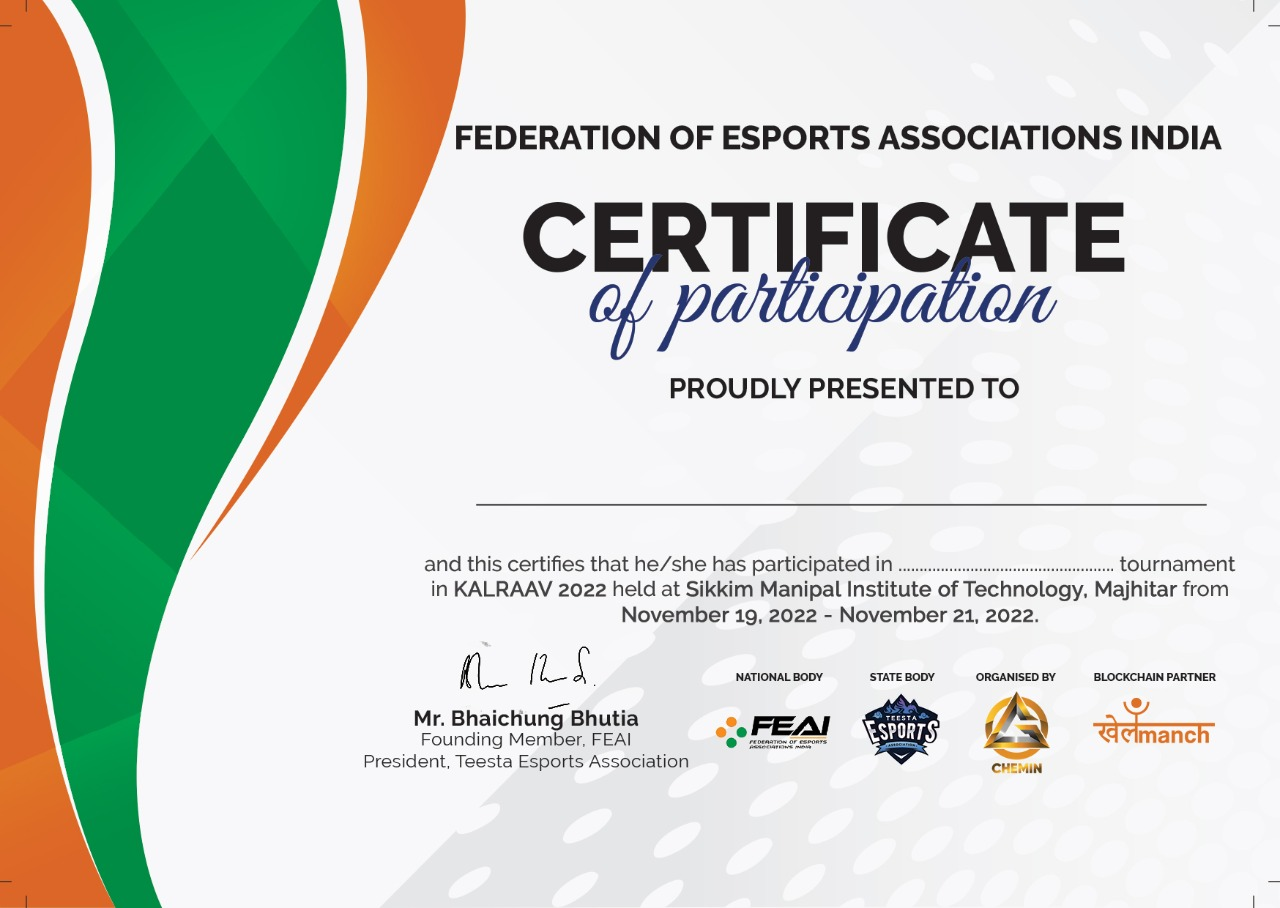
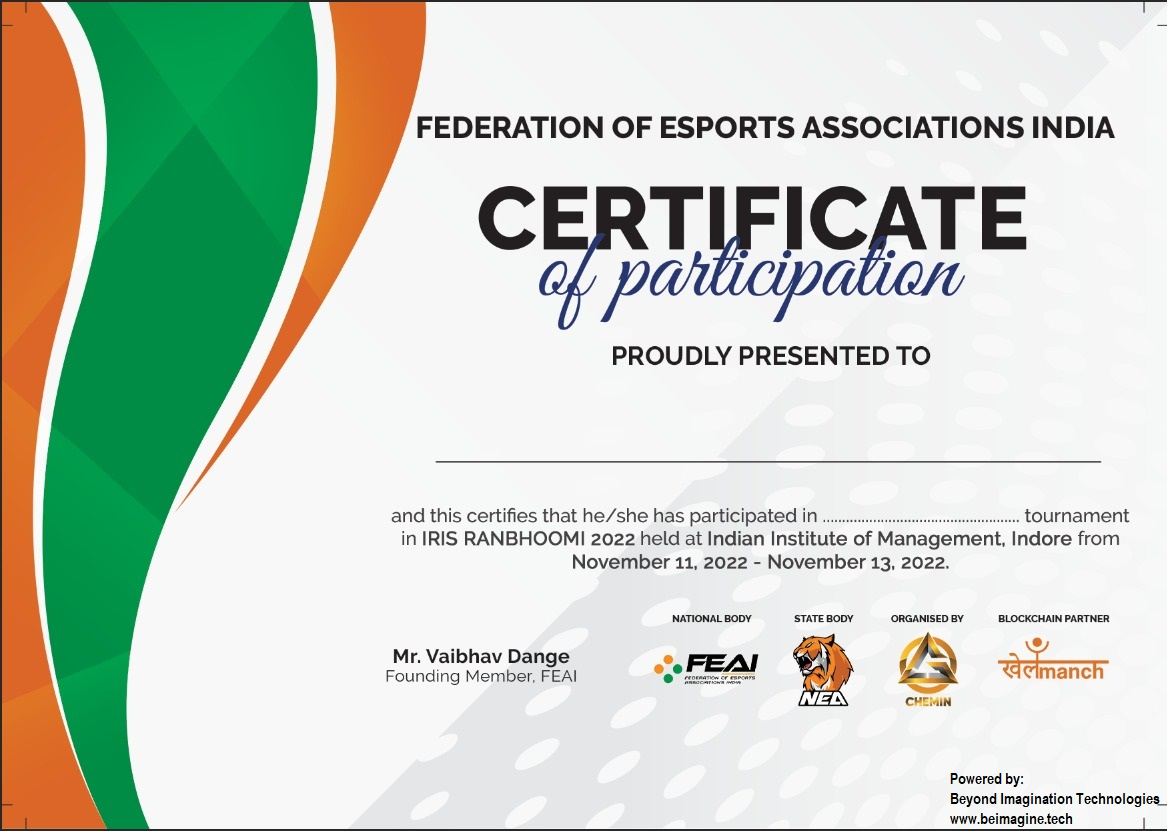
updated template and deploy script

diff --git a/scripts/user_data.py b/scripts/user_data.py
@@ -1,7 +1,7 @@
 user_data = [
     {
         "tournament_name": "Tournament 1",
-        "user_name": "User 1",
+        "user_name": "Roshan Lal Chaddha Singh",
         "user_account": "0x9E6407D973648A3382B8E84e92E1BD3DFD2E9387",
     },
     {
@@ -13,145 +13,5 @@ user_data = [
         "tournament_name": "Tournament 3",
         "user_name": "User 3",
         "user_account": "0xCa24dAe560a0B628408FB323B5C7ec0B03276F1d",
-    },
-    {
-        "tournament_name": "Tournament 4",
-        "user_name": "User 4",
-        "user_account": "0xbb141b9A5b96440d651Bcd9C29EF9A0a77300bC0",
-    },
-    {
-        "tournament_name": "Tournament 5",
-        "user_name": "User 5",
-        "user_account": "0xf5a34486b08300F426432b035BE949e2AF1aC375",
-    },
-    {
-        "tournament_name": "Tournament 6",
-        "user_name": "User 6",
-        "user_account": "0x35cbf3b391872032C2f8bfB67c0f9A2FeFc46508",
-    },
-    {
-        "tournament_name": "Tournament 7",
-        "user_name": "User 7",
-        "user_account": "0x8071bCe7d344D607213512BE9dcBD6BC756B11E7",
-    },
-    {
-        "tournament_name": "Tournament 8",
-        "user_name": "User 8",
-        "user_account": "0xCA3aEF4A1755Ec7c6c7170f4Bf665d1f94167E62",
-    },
-    {
-        "tournament_name": "Tournament 9",
-        "user_name": "User 9",
-        "user_account": "0x2F0F1f694C37c390ce3025Ff2862E65e70CAE62C",
-    },
-    {
-        "tournament_name": "Tournament 10",
-        "user_name": "User 10",
-        "user_account": "0x9E6407D973648A3382B8E84e92E1BD3DFD2E9387",
-    },
-    {
-        "tournament_name": "Tournament 11",
-        "user_name": "User 11",
-        "user_account": "0x971AaCB8CC05Dfea0D71Ca62C4e47C0F0dda5B97",
-    },
-    {
-        "tournament_name": "Tournament 12",
-        "user_name": "User 12",
-        "user_account": "0xCa24dAe560a0B628408FB323B5C7ec0B03276F1d",
-    },
-    {
-        "tournament_name": "Tournament 13",
-        "user_name": "User 13",
-        "user_account": "0xbb141b9A5b96440d651Bcd9C29EF9A0a77300bC0",
-    },
-    {
-        "tournament_name": "Tournament 14",
-        "user_name": "User 14",
-        "user_account": "0xf5a34486b08300F426432b035BE949e2AF1aC375",
-    },
-    {
-        "tournament_name": "Tournament 15",
-        "user_name": "User 15",
-        "user_account": "0x35cbf3b391872032C2f8bfB67c0f9A2FeFc46508",
-    },
-    {
-        "tournament_name": "Tournament 16",
-        "user_name": "User 16",
-        "user_account": "0x8071bCe7d344D607213512BE9dcBD6BC756B11E7",
-    },
-    {
-        "tournament_name": "Tournament 17",
-        "user_name": "User 17",
-        "user_account": "0xCA3aEF4A1755Ec7c6c7170f4Bf665d1f94167E62",
-    },
-    {
-        "tournament_name": "Tournament 18",
-        "user_name": "User 18",
-        "user_account": "0x2F0F1f694C37c390ce3025Ff2862E65e70CAE62C",
-    },
-    {
-        "tournament_name": "Tournament 19",
-        "user_name": "User 19",
-        "user_account": "0x9E6407D973648A3382B8E84e92E1BD3DFD2E9387",
-    },
-    {
-        "tournament_name": "Tournament 20",
-        "user_name": "User 20",
-        "user_account": "0x971AaCB8CC05Dfea0D71Ca62C4e47C0F0dda5B97",
-    },
-    {
-        "tournament_name": "Tournament 21",
-        "user_name": "User 21",
-        "user_account": "0xCa24dAe560a0B628408FB323B5C7ec0B03276F1d",
-    },
-    {
-        "tournament_name": "Tournament 22",
-        "user_name": "User 22",
-        "user_account": "0xbb141b9A5b96440d651Bcd9C29EF9A0a77300bC0",
-    },
-    {
-        "tournament_name": "Tournament 23",
-        "user_name": "User 23",
-        "user_account": "0xf5a34486b08300F426432b035BE949e2AF1aC375",
-    },
-    {
-        "tournament_name": "Tournament 24",
-        "user_name": "User 24",
-        "user_account": "0x35cbf3b391872032C2f8bfB67c0f9A2FeFc46508",
-    },
-    {
-        "tournament_name": "Tournament 25",
-        "user_name": "User 25",
-        "user_account": "0x8071bCe7d344D607213512BE9dcBD6BC756B11E7",
-    },
-    {
-        "tournament_name": "Tournament 26",
-        "user_name": "User 26",
-        "user_account": "0xCA3aEF4A1755Ec7c6c7170f4Bf665d1f94167E62",
-    },
-    {
-        "tournament_name": "Tournament 27",
-        "user_name": "User 27",
-        "user_account": "0x2F0F1f694C37c390ce3025Ff2862E65e70CAE62C",
-    },
-    {
-        "tournament_name": "Tournament 28",
-        "user_name": "User 28",
-        "user_account": "0x8071bCe7d344D607213512BE9dcBD6BC756B11E7",
-    },
-    {
-        "tournament_name": "Tournament 29",
-        "user_name": "User 29",
-        "user_account": "0xCA3aEF4A1755Ec7c6c7170f4Bf665d1f94167E62",
-    },
-    {
-        "tournament_name": "Tournament 30",
-        "user_name": "User 30",
-        "user_account": "0x2F0F1f694C37c390ce3025Ff2862E65e70CAE62C",
-    },
-    {
-        "tournament_name": "Tournament 31",
-        "user_name": "User 31",
-        "user_account": "0xbb141b9A5b96440d651Bcd9C29EF9A0a77300bC0",
     },
 ]

diff --git a/scripts/cert_scripts.py b/scripts/cert_scripts.py
@@ -1,6 +1,7 @@
 from scripts.tools import get_account
 from scripts.user_data import user_data
 from brownie import Certificate
+from brownie import Contract
 from PIL import Image, ImageDraw, ImageFont
 import requests
 import json
@@ -16,9 +17,12 @@ def get_account_list():
 
 def deploy_contract():
     account = get_account()
-    Certificate.deploy(
+    certificate = Certificate.deploy(
         "Federation of Esports Associations India", "BIT", {"from": account}
     )
+    deployed_contract = {"deployed_contract": certificate.address}
+    with open("deployed_contract.json", "w") as file:
+        json.dump(deployed_contract, file)
 
 
 def prepare_cert_images():
@@ -29,12 +33,13 @@ def prepare_cert_images():
 def print_image(name, tournament, account):
     image = Image.open("template.jpeg")
     I1 = ImageDraw.Draw(image)
-    myFont = ImageFont.truetype("arial.ttf", 65)
-    x_pos = (480 + 1200) / 2 - (len(name) * 40) / 2
-    I1.text((x_pos, 430), name, font=myFont, fill=(0, 0, 0))
-    myFont = ImageFont.truetype("arial.ttf", 20)
-    x_pos = 900
-    I1.text((x_pos, 550), tournament, font=myFont, fill=(0, 0, 0))
+    myFont = ImageFont.truetype("arial.ttf", 40)
+    x_pos = 450
+    I1.text((x_pos, 420), name, font=myFont, fill=(0, 0, 0))
+    myFont = ImageFont.truetype("arial.ttf", 18)
+    x_pos = 820
+    I1.text((x_pos, 500), tournament, font=myFont, fill=(0, 0, 0))
+    image.show()
     image.save("certificates/" + account + ".png")
 
 
@@ -72,7 +77,7 @@ def upload_metadata(account):
 
 def create_metadata(name, tournament, account, cert_url):
     nft_name = "Certificate of Participation"
-    nft_description = f"Certificate of participation proudly presented to {name} and this certifies that he/she has participated in {tournament} in KALRAAV 2022 held at Sikkim Manipal Institute of Technology, Majhitar from November 19, 2022 - November 21, 2022."
+    nft_description = f"Certificate of participation proudly presented to {name} and this certifies that he/she has participated in {tournament} in IRIS RANBHOOMI 2022 held at Indian institute of Management, Indore from November 11, 2022 - November 13, 2022"
     metadata = {"name": nft_name, "description": nft_description, "image": cert_url}
     metadata_filepath = "metadata/" + account + ".json"
     with open(metadata_filepath, "w") as metadata_file:
@@ -82,13 +87,17 @@ def create_metadata(name, tournament, account, cert_url):
 
 
 def mint_certificates():
-    certificate = Certificate[-1]
+    with open("build/contracts/Certificate.json", "r") as file:
+        data = json.load(file)
+        abi = data["abi"]
+    with open("deployed_contract.json", "r") as file:
+        data = json.load(file)
+        deployed_contract = data["deployed_contract"]
+    certificate = Contract.from_abi("Certificate", deployed_contract, abi)
     for user in user_data:
         user_status = {"name": user["user_name"], "account": user["user_account"]}
         try:
-            cert_url = upload_certificate(
-                account="0x9E6407D973648A3382B8E84e92E1BD3DFD2E9387"
-            )
+            cert_url = upload_certificate(account=user["user_account"])
             user_status["cert_url"] = cert_url
             metadata_url = create_metadata(
                 user["user_name"],
@@ -97,20 +106,34 @@ def mint_certificates():
                 cert_url,
             )
             user_status["metadata_url"] = metadata_url
+            account = get_account()
             certificate_creation_tx = certificate.createCertificate(
-                metadata_url, user["user_account"]
+                metadata_url, user["user_account"], {"from": account}
             )
             certificate_creation_tx.wait(1)
             user_status["status"] = "Success"
         except:
             user_status["status"] = "Failed"
         status.append(user_status)
-    print(status)
     with open("status.json", "w") as status_file:
         json.dump(status, status_file)
 
 
-def main():
-    prepare_cert_images()
-    deploy_contract()
-    mint_certificates()
+def check_issued_certificates():
+    with open("build/contracts/Certificate.json", "r") as file:
+        data = json.load(file)
+        abi = data["abi"]
+    certificate = Contract.from_abi(
+        "Certificate", "0x1F18686Df440E13Ad95AeF3fd8E572bDA8c69872", abi
+    )
+    mint_status = {}
+    for user in user_data:
+        user_address = user["user_account"]
+        balance = certificate.balanceOf(user_address)
+        if int(balance) == 1:
+            mint_status[user_address] = "Success"
+        elif int(balance) == 0:
+            mint_status[user_address] = "Failed"
+        elif int(balance) > 1:
+            mint_status[user_address] = "ooooooooooooppppppppsssssssssssss"
+    print(mint_status)

diff --git a/scripts/issue_all.py b/scripts/issue_all.py
@@ -1,0 +1,13 @@
+from scripts.cert_scripts import (
+    prepare_cert_images,
+    deploy_contract,
+    mint_certificates,
+    check_issued_certificates,
+)
+
+
+def main():
+    prepare_cert_images()
+    deploy_contract()
+    mint_certificates()
+    check_issued_certificates()

diff --git a/scripts/check_status.py b/scripts/check_status.py
@@ -1,0 +1,5 @@
+from scripts.cert_scripts import check_issued_certificates
+
+
+def main():
+    check_issued_certificates()

diff --git a/scripts/create_certs.py b/scripts/create_certs.py
@@ -1,0 +1,5 @@
+from scripts.cert_scripts import prepare_cert_images
+
+
+def main():
+    prepare_cert_images()

diff --git a/scripts/mint_certs.py b/scripts/mint_certs.py
@@ -1,0 +1,5 @@
+from scripts.cert_scripts import mint_certificates
+
+
+def main():
+    mint_certificates()

diff --git a/scripts/deploy_contract.py b/scripts/deploy_contract.py
@@ -1,0 +1,5 @@
+from scripts.cert_scripts import deploy_contract
+
+
+def main():
+    deploy_contract()

diff --git a/readme.md b/readme.md
@@ -1,37 +1,36 @@
-Step1.
-    Clone the repository
+1.  Clone the repository
 
-Step2.
-    Prepare a virtual environment
-    >>> mkvirtaulenv . ENV_NAME
-    >>> workon ENV_NAME
+2.  Prepare a virtual environment
+    * >>> mkvirtaulenv . ENV_NAME
+    * >>> workon ENV_NAME
 
-Step3. 
-    install brownie and PIL
-    a) >>> pip install eth-brownie
-    b) >>> pip install PIL
+3.  install brownie and PIL
+    * >>> pip install eth-brownie
+    * >>> pip install PIL
 
-Step4.
-    open "data.xlsx" file and input the data.
-    Yellow cells are input fields.
+4.  * open "data.xlsx" file and input the data.
+    * Yellow cells are input fields.
 
-Step5.
-    Copy the input data from "data.xlsx" to "scripts/user_data.py" file.
-    The green cells are "data.xlsx" file are to be copied at once and paste in "scripts/user_data.py" file.
+5.  * Copy the input data from "data.xlsx" to "scripts/user_data.py" file.
+    * The green cells are "data.xlsx" file are to be copied at once and paste in "scripts/user_data.py" file.
 
-Step6.
-    Create a .env file and fill in the private key or network details.
+6.   Create a .env file and fill in the private key or network details.
 
-Step7.
-    Run the deploy.py file.
-    >>> brownie run scripts/deploy.py
-    run in local environment for practice.
+7.  * Run the issue_all.py file.
+    * >>> brownie run scripts/issue_all.py
+    * run in local environment for practice.
 
-Step8.
-    Change the the brownie network to polygon and run step 7.
+8.  Check the status from "status.json" file or run check_status.py file
+    * >>> brownie run scripts/check_status.py
 
-Step9.
-    Check the status from "status.json" file.
+9. Modify the user_data.py file by deleting the successful enteries.
+
+10. rerun the minting script from mint_certs.py file
+    * >>> brownie run scripts/mint_certs.py
+
+11.  Change the the brownie network to polygon and run step 7.
+
+12.  Check the status from "status.json" file.
 
 
 
